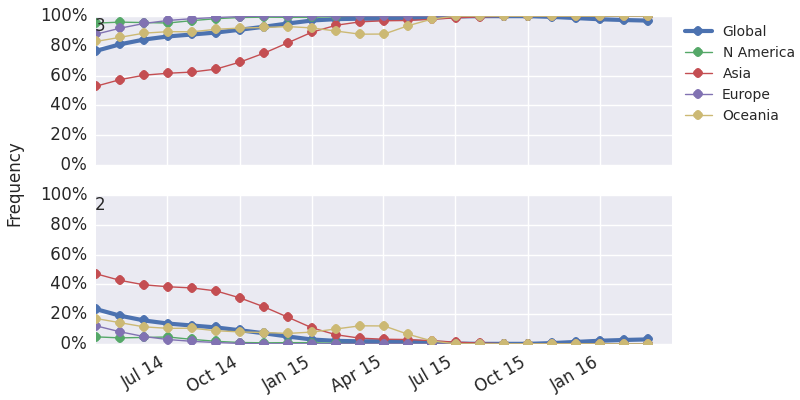
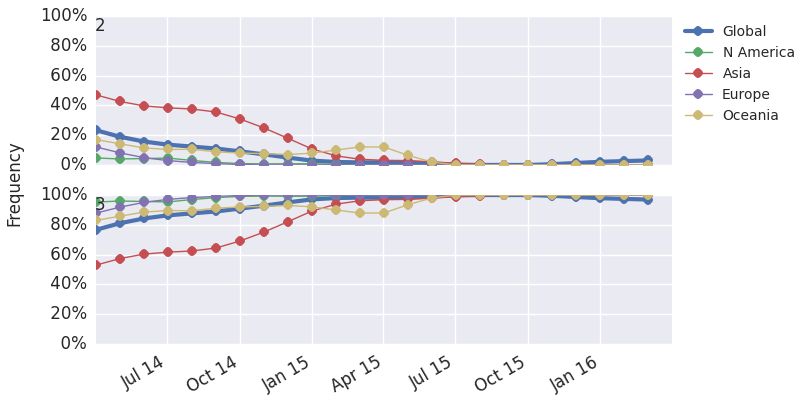
Update Vic and Yam text. Swap ordering of Yam panels.

diff --git a/auspice/reports/_posts/2016-02-15-feb-2016.html b/auspice/reports/_posts/2016-02-15-feb-2016.html
@@ -108,8 +108,10 @@ categories:
 		<b>Within clade 1A viruses, there are few examples of selectively interesting clades. The clade 129D/146I/117V has risen to high frequency, but at a rate that suggests little effect from natural selection.</b>
 
 		<div class="spacer"></div>
+
+		North American and European isolates almost all contain 129D. While the majority of North American isolates also contain 117V, recent European isolates more ancestral with 117I instead of 117V. Recent isolates from the Southern hemisphere (and some Hong Kong isolates) are from the highly derived clade 124A/56K.
+
 		{% embed_image /reports/figures/feb-2016/Vic_mutations.png 12 %}
-		North American and European isolates almost all contain 129D. While the majority of North American isolates also contains 117V, the most recent European isolates are ancestral with 117I instead of 117V. Recent isolates from the Southern hemisphere (and some Hong Kong isolates) are from the highly derived clade 124A/56K.
 
 		No prominent amino acid substitutions are observed within the 117V clade, but this clade has been growing most strongly and is picked by the local branching index as the putatively most successful clade.
 		<!-- Text here -->
@@ -135,10 +137,14 @@ categories:
 		<b>Clade 3 has predominated the B/Yamagata population with the recent emergence and spread of the substitution HA1:172Q. At this point clade 2 viruses are close to extinct.</b>
 
 		<div class="spacer"></div>
-		{% embed_image /reports/figures/feb-2016/Yam_mutations.png 12 %}
-		Within clade 3, 251V has been slowly rising to frequencies close to 100% in all geographic regions analyzed differentially. The model of HI data assigns a modest titer drop of about 0.3 units to the branch to which 251V is assigned. Within the clade 251V there are multiple subclades of intermediate size, one of which predominates in China. None of them exhibit a particularly striking dynamics.
 
-		<!-- Text here -->
+		In 2015, the vast majority of isolates were of clade 3 viruses. Clade 2 appears to be barely hanging on and we expect it to continue to persist only if it acquires additional selective substitutions.
+		
+		{% embed_image /reports/figures/feb-2016/Yam_clades.png 12 %}
+
+		Within clade 3, HA1:172Q has predominated during the whole of 2015, while the subclade HA1:172Q/251V has been slowing rising to frequencies close to 100% in all geographic regions. The model of HI data assigns a modest titer drop of about 0.3 units to the M251V branch. Within the clade 251V there are multiple subclades of intermediate size, one of which predominates in China. None of these exhibit a particularly striking dynamics.
+
+		{% embed_image /reports/figures/feb-2016/Yam_mutations.png 12 %}
 
 	</div>
 </div>

diff --git a/auspice/reports/plot_clades.py b/auspice/reports/plot_clades.py
@@ -35,8 +35,8 @@ elif virus=='Vic':
     mut_legend = {'panel':0, 'loc':3}
 elif virus=='Yam':
     freqs = json.load(open('../data/Yam_2y_frequencies.json'))
-    clades = ['3', '2']
-    mutations = ['HA1:251V', 'HA1:172Q']
+    clades = ['2', '3']
+    mutations = ['HA1:172Q', 'HA1:251V']
     clade_legend = {'panel':0, 'loc':3}
     mut_legend = {'panel':0, 'loc':3}
 
